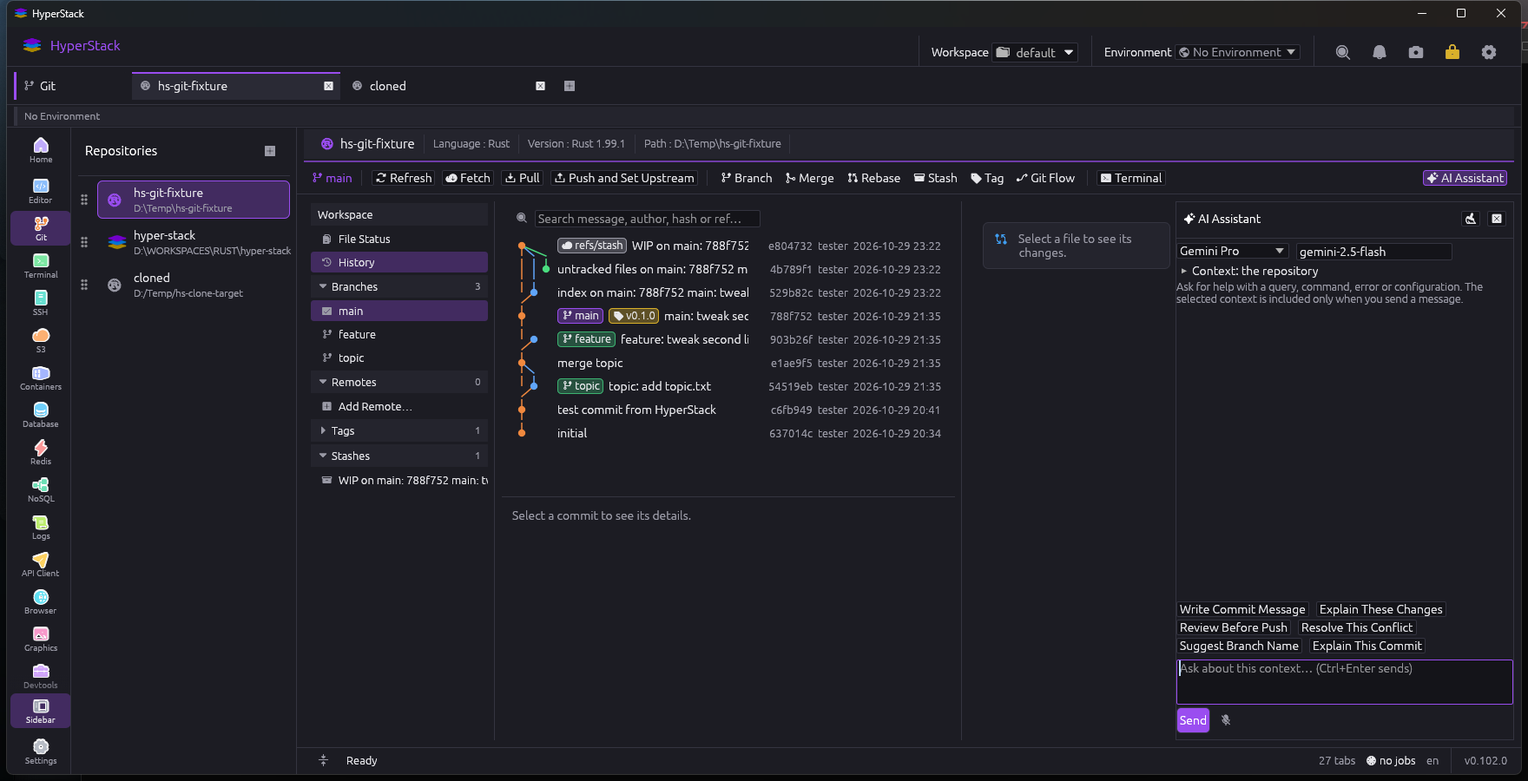
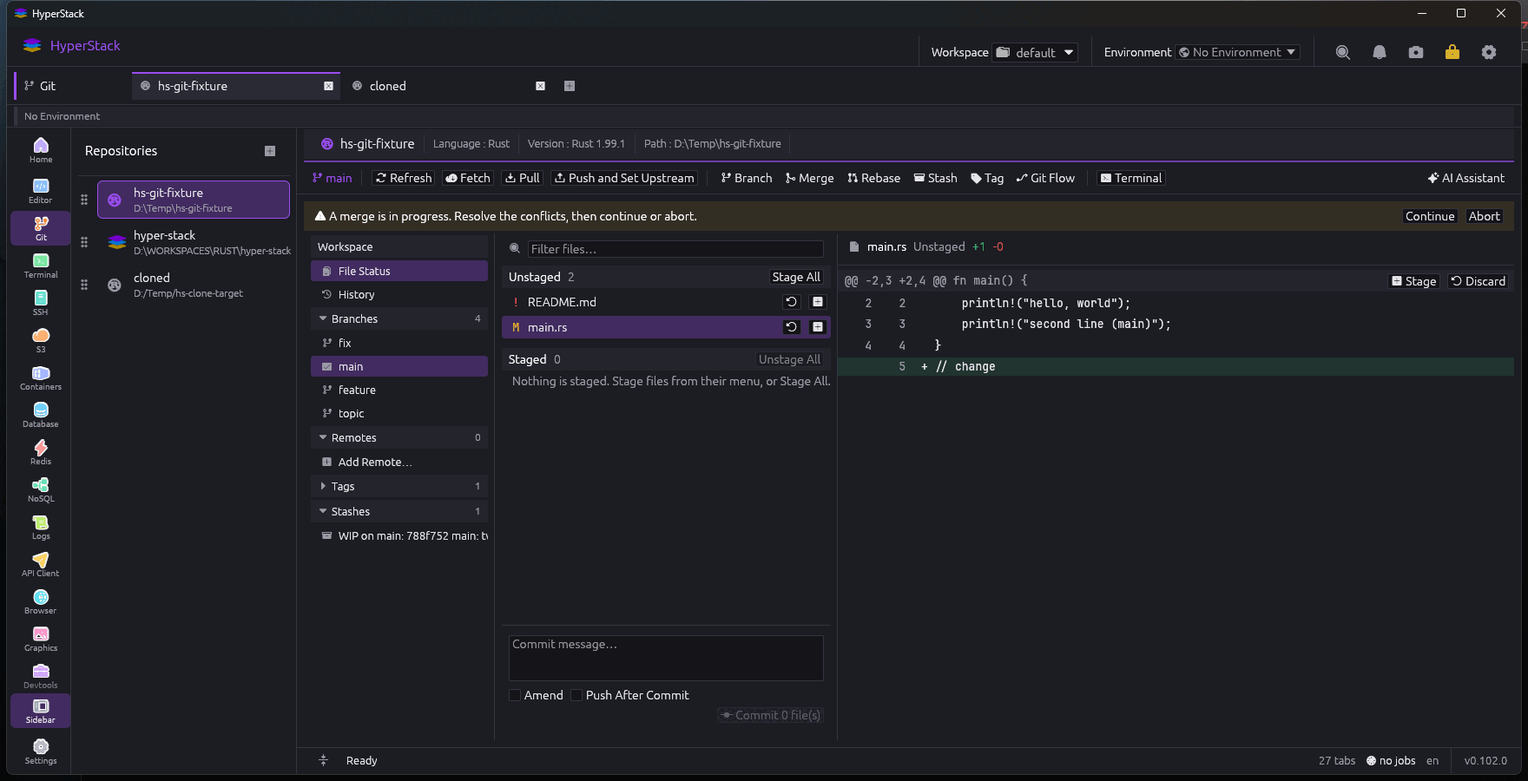
docs: refresh feature and phase status across CHECKLIST, features, roadmap and README with new screenshots and GIFs

diff --git a/README.md b/README.md
@@ -12,7 +12,7 @@
   <a href="https://github.com/mzaki-raup/hyper-stack/stargazers"><img src="https://img.shields.io/github/stars/mzaki-raup/hyper-stack?style=for-the-badge&color=5F4B87&labelColor=14161A" alt="Stars" /></a>
 </p>
 
-<p align="center"><img src="docs/screenshots/hyperstack-demo.gif" alt="HyperStack walkthrough: unlock the vault, open a terminal from the launcher, search the output and Ctrl+click a compiler location to open it in the editor, preview Markdown with a Mermaid diagram, connect over SSH and start a port-forward tunnel, browse an S3 bucket and create a presigned URL, then switch to the protected Production environment" width="960"></p>
+<p align="center"><img src="docs/screenshots/hyperstack-demo.gif" alt="HyperStack walkthrough: unlock the vault, open a terminal from the launcher, search the output and Ctrl+click a compiler location to open it in the editor, preview Markdown with a Mermaid diagram, connect over SSH and start a port-forward tunnel, browse an S3 bucket and create a presigned URL, switch to the protected Production environment, then tour the Git activity (dashboard, File Status, conflict editor, History graph, blame, Git Flow, menus, AI Assistant, Settings → Git), an activity dashboard and the global variables" width="960"></p>
 
 HyperStack is a desktop application for full-stack developers, DevOps engineers,
 database administrators, testers and integration engineers. It brings the tools
@@ -50,8 +50,21 @@ and theme.
 > SwarmUI, InvokeAI or Fooocus server) and a review-only assistant in
 > Terminal, SSH, SQL, Redis, NoSQL, S3, API client and Graphics whose code blocks can be
 > inserted but never run, and the in-app updater with signed releases.
-> The Git write side and logs follow in the next milestones
-> per [docs/07-roadmap.md](docs/07-roadmap.md). Sibling project:
+> Since then: the **Logs** activity (2026-10-22: local, SSH, command and
+> pasted sources, parsers for plain/JSON/logfmt/syslog/Nginx/PostgreSQL
+> and JVM thread dumps, filters, find, bookmarks), the **Containers**
+> activity (2026-10-24: Docker, Podman, Kubernetes and Windows
+> containers; images, Compose, pod logs into Logs, a shell in a pod),
+> a **dashboard home tab** for every activity (2026-10-27: summaries,
+> Start Here, the saved things, what is open), **global variables** and
+> collection variables compared and synced across workspaces
+> (2026-10-29), Scratchpad notes that resolve `{{variables}}` and open
+> their links in the Browser, and the **Git activity** (2026-10-29/30,
+> v0.98 to v0.103): saved repositories, a SourceTree-style work pane
+> with History graph, blame and a conflict editor, every branch / merge /
+> rebase / stash / tag / Git Flow verb, hosts (Fetch Project, Clone and
+> Save, tokens in the vault) and an AI Assistant. The remaining
+> milestones are in [docs/07-roadmap.md](docs/07-roadmap.md). Sibling project:
 > `../eden-explorer` (Rust + egui file manager) serves as a **reference
 > only**: HyperStack studies how it solved the multi-row tab strip,
 > terminal, SSH/SFTP, S3 and Git status, then writes its own
@@ -82,7 +95,7 @@ the fixtures behind them.
 | [Shell and workspaces](#shell-and-workspaces) | Home, launcher, palette, tabs, dock, workspaces, environments |
 | [Vault and connections](#vault-and-connections) | First-run vault, unlock, profiles and secrets |
 | [Editor](#editor) | Projects, files, Markdown and Mermaid, LSP, debugger, AI assistant |
-| [Git](#git) | Git in the editor, and the Git activity with saved repositories, File Status and Settings → Git |
+| [Git](#git) | Git in the editor, and the **Git activity**: dashboard, File Status, History graph, blame, conflicts, Git Flow, hosts, assistant |
 | [Terminal](#terminal) | Shells, search, links |
 | [SSH and SFTP](#ssh-and-sftp) | Host keys, dual pane, tunnels, remote editing |
 | [S3](#s3-and-s3-compatible-storage) | Buckets, profiles, presigned URLs, guards; **WebDAV** and **Nexus** too |
@@ -91,11 +104,11 @@ the fixtures behind them.
 | [NoSQL](#nosql-mongodb-and-couchdb) | Containers, find, aggregate, indexes, documents; **Qdrant** too |
 | [Logs](#logs) | Local, SSH, command and pasted sources; parsers, filters, find, bookmarks |
 | [API client](#api-client) | Requests, scripts, assistant |
-| [Devtools](#devtools) | JWT, hashes, Jasypt, PKI, regex, diff, Base64, URL, YAML, generators, cron, units |
+| [Devtools](#devtools) | JWT, hashes, Jasypt, PKI, regex, diff, Base64, URL, YAML, generators, cron, units; the utility toolbar row |
 | [Graphics](#graphics) | Activity dashboard, image and icon tabs, operations, crop |
 | [Scratchpad and assistant](#scratchpad-and-assistant) | Notes, pinning, dictation |
 | [Browser](#browser) | WebView2 pages, favourites, passwords |
-| [Settings](#settings) | Every page |
+| [Settings](#settings) | Every page, including Git and the Collection / Global Variables cards |
 
 ### Shell and workspaces
 
@@ -114,13 +127,20 @@ the fixtures behind them.
 
 Every activity opens on a **permanent tab of its own** - named after the
 activity, with its icon, and it cannot be closed, pinned or duplicated.
-For Terminal, SSH, Database, NoSQL, Redis, S3, Devtools and the Scratchpad
-that tab is a dashboard: a short summary of the activity and a grid of
-what it has open, each card carrying the last picture taken of that pane,
-and clicking one goes to the tab. Opening a connection, a note or a shell
-always makes a tab beside it. The API client's permanent tab is the
-workspace's instead, with its logo and name. Pinning a tab puts it
-directly after the permanent one.
+Since 2026-10-27 that tab is a **dashboard laid out the same way in every
+activity** (Editor, Git, Terminal, SSH, Containers, Database, NoSQL,
+Redis, S3, API client, Graphics, Devtools, Logs, Scratchpad): a header
+band, equal-width summary boxes, **Start Here** buttons that open the
+right Settings form with the kind already chosen, a grid of the saved
+things (shells, hosts, databases, collections, repositories, notes…) and
+**Open Here**, the activity's open tabs each carrying the last picture
+taken of its pane. Opening a connection, a note or a shell always makes a
+tab beside it. Pinning a tab puts it directly after the permanent one.
+
+| | |
+|---|---|
+| ![Terminal dashboard](docs/screenshots/terminal-dashboard.png) | ![Database dashboard](docs/screenshots/db-dashboard.png) |
+| **Terminal dashboard** - shells detected on the machine, Add CLI, Saved Shells, Open Here with a picture of the open session | **Database dashboard** - saved connections, Add Database, Open Here |
 
 ### Vault and connections
 
@@ -163,48 +183,29 @@ directly after the permanent one.
 | ![Tags](docs/screenshots/editor-git-tags.png) | ![Commit prefix](docs/screenshots/editor-git-prefix.png) |
 | **Tags** - lightweight or annotated, created from their own menu and pushed or deleted per tag | **Commit prefixes** - pick a Conventional Commit type; it is inserted once with its meaning, and Clear Prefix removes it |
 
-**The Git activity** (2026-10-29, phase 1 of `docs/tools/git-activity.md`)
-sits right after Editor in the rail: a dashboard home with summaries,
-Start Here, Saved Repositories and Open Here; a sidebar of the
-workspace's saved repositories (drag to reorder; right-click to edit its
-settings or Remove From List, which closes the tabs and never touches the
-folder); and one tab per repository with a header band (icon, name,
-language, toolchain version, URL, path), a toolbar (branch, Refresh,
-Fetch, Pull, Push, Terminal in the repository root) and the SourceTree
-File Status view - unstaged and staged lists with Stage / Unstage /
-Discard, the diff of the selected file, and a commit box with Amend and
-Push After Commit. **Settings → Git** holds the repository list
-(master/detail form), Git Credentials (tokens go to the vault) and the
-General options (protected patterns, pull with rebase, sign-off, stash
-untracked, default clone folder, terminal profile, Git Flow names).
-Phase 2 (same day) added the SourceTree work pane: a tree of branches,
-remotes, tags and stashes; **History** with the commit graph, chips,
-search, commit details and per-file diffs; **Blame** coloured by age;
-per-hunk Stage / Unstage / Discard; a **conflict editor** (Ours / Theirs
-/ Both per block, Save and Mark Resolved); and uploaded **repository
-icons** shown on the tab, the sidebar and the dashboard. Phase 3 brought the verbs: Branch, Merge, Rebase (plain and interactive),
-Stash, Tag and Git Flow panels on the toolbar; right-click menus on
-branches, remotes, tags, stashes and commits (check out, merge, rebase,
-push, set upstream, rename, delete, fetch, cherry-pick, tag here…); a
-Continue / Skip / Abort bar for a paused merge, rebase or cherry-pick;
-and confirmations for deletions and pushes onto protected branches.
-Phase 4 added the hosts: a credential's **Test**, **Fetch Project** (a
-searchable list of everything a GitHub, GitLab, Forgejo, Gitea or
-Bitbucket token can see), **Clone and Save** as a cancellable job, and
-the token handed to git for one command at a time through a helper file
-that is deleted afterwards. Phase 5 added the **AI Assistant** column: the repository as context,
-prompt buttons for a commit message, an explanation or review of the
-changes, a conflict, a branch name or the last commit, and answers whose
-command blocks run in a terminal opened in the repository root. Phase 6
-finished the activity: dashboard figures for repositories with changes
-and commits ahead / behind, the host's avatar as the icon of a fetched
-project, a palette command for every verb, and keyboard navigation of
-the lists.
+**The Git activity** (2026-10-29/30, v0.98 to v0.103, spec
+[docs/tools/git-activity.md](docs/tools/git-activity.md)) sits right after
+Editor in the rail and manages repositories SourceTree-style, apart from
+whatever the editor has open.
+
+<p align="center"><img src="docs/screenshots/git-walkthrough.gif" alt="Git activity walkthrough: the dashboard, File Status with a hunk's Stage and Discard under a paused merge, the conflict editor, the History graph with a commit's files, blame, the Git Flow panel, a branch's menu, the AI Assistant with the repository as context, Settings → Git and a credential form" width="960"></p>
 
 | | |
 |---|---|
-| ![Git dashboard](docs/screenshots/git-dashboard.png) | ![Git repository tab](docs/screenshots/git-repository.png) |
-| **Dashboard** - saved repositories, figures, Start Here | **Repository tab** - tree, History graph, diff and the assistant column |
+| ![Git dashboard](docs/screenshots/git-dashboard.png) | ![File Status](docs/screenshots/git-repository.png) |
+| **Dashboard** - Repositories, With Changes, Ahead / Behind, Credentials and Open Tabs; Start Here (Add Repository, Clone From Host, Git Credentials, Manage Repositories); Saved Repositories with their icons; Open Here | **Repository tab** - header band (icon, name, language, toolchain version, URL, path), the toolbar (branch, Refresh, Fetch, Pull, Push, Branch, Merge, Rebase, Stash, Tag, Git Flow, Terminal, AI Assistant), the tree (File Status / History, Branches with ahead/behind, Remotes, Tags, Stashes), unstaged and staged lists with Stage / Unstage / Discard, the diff with **Stage / Discard per hunk**, the commit box with Amend and Push After Commit - here under the bar a paused merge shows, with Continue and Abort |
+| ![History](docs/screenshots/git-history.png) | ![Conflict editor](docs/screenshots/git-conflict.png) |
+| **History** - the commit graph of every branch with lanes, branch / tag / stash chips, author and date, a search over message, author, hash and ref, Load More; the selected commit's message, hash, parents and changed files, each opening its diff or its blame | **Conflict editor** - an unmerged file block by block: Ours and Theirs under their labels, Ours / Theirs / Both per block, All Ours / All Theirs, and **Save and Mark Resolved**, which writes the file and stages it |
+| ![Blame](docs/screenshots/git-blame.png) | ![Git Flow](docs/screenshots/git-flow.png) |
+| **Blame** - every line with its commit, author and date in a gutter coloured by age; clicking a line finds its commit in History | **Git Flow** - Feature / Release / Hotfix, Start or Finish, built from plain git with the exact commands shown before Apply (a finish merges with `--no-ff`, tags production and merges back into develop); the names live in Settings → Git |
+| ![Branch menu](docs/screenshots/git-branch-menu.png) | ![AI Assistant](docs/screenshots/git-assistant.png) |
+| **Right-click menus** - a branch: Check Out, Merge into Current, Rebase Current onto, Push, Set Upstream, Rename, Delete; a remote branch, a remote, a tag, a stash and a History row have theirs (cherry-pick, create branch here, tag here…); deletions and pushes onto a protected branch ask first | **AI Assistant** - the repository as context (branch, upstream, remote, status, a bounded staged diff, recent commits) and six prompt buttons; a `commit` block's Insert fills the commit box, a command block's Insert and Run runs it in a terminal opened in the repository root |
+| ![Settings → Git](docs/screenshots/settings-git.png) | ![Credential](docs/screenshots/settings-git-credential.png) |
+| **Settings → Git** - the repository list (drag to reorder) and a master/detail form: Local Folder, Localhost or Remote Host source, name, an **uploaded icon** or a glyph, URL, credential, **Fetch Project** (a fuzzy-searchable list of everything the token can see; the host's avatar becomes the icon), path and language; **Clone and Save** clones a folder that does not exist yet as a cancellable Job; Save stays disabled until the mandatory fields hold | **Git Credentials** - GitHub, GitLab, Forgejo, Gitea, Bitbucket, Azure DevOps or generic; host URL, username and a token that goes to the **vault** and reaches git for one command at a time through a helper file deleted afterwards; **Test** asks the host who the token belongs to. The General card below holds protected patterns, pull with rebase, sign-off, stash untracked, the default clone folder, the terminal profile and the Git Flow names |
+
+Removing a repository from the list closes its tabs and **never touches
+the folder**; every verb is also a palette command, and Up / Down walk
+the lists.
 
 ### Terminal
 
@@ -315,6 +316,9 @@ globals. A non-GET request to a protected environment asks first.
 | ![Cron](docs/screenshots/devtools-cron.png) | ![Unit conversion](docs/screenshots/devtools-units.png) |
 | **Cron** - build a schedule and read it in Unix, Spring and Quartz dialects, with an expression checker | **Units** - time, epochs, number bases, data sizes, durations and bandwidth, with every unit listed |
 
+| ![Utility toolbar](docs/screenshots/devtools-toolbar.png) | |
+| **Utility tabs** (2026-10-29) - every utility opens in its own tab under a toolbar row that names it and keeps the hard-right corner for an AI Assistant control; the activity's dashboard lists all fifteen | |
+
 Also **TOML** and **XML** (check, format, convert) and **Firebase tokens**;
 keys typed into a utility are never saved.
 
@@ -396,8 +400,10 @@ each removable; the AI assistant is review-only.
 | **Edit Secret** — after the master password, the password and key are editable; typed values move into the vault, an empty field clears the secret | **Connections** — every profile by kind, folder and tags, drag to reorder, Test Connection and **Connect**, which saves and opens the profile in its own activity. Right-click a connection in any activity sidebar for **Edit This Connection…**, which opens its form here |
 | ![Terminal settings](docs/screenshots/settings-terminal.png) | ![Editor settings](docs/screenshots/settings-editor.png) |
 | **Terminal** — default shell, font, right-click copy/paste, link detection | **Editor** — font, right-click, trim and final newline on save, auto reload, language servers and debug adapters |
-| ![Terminal List](docs/screenshots/settings-terminal-list.png) | |
-| **Terminal List** - shells and CLI profiles in order, with Add CLI, Edit, Remove and PATH suggestions (sqlite3, claude and opencode here); a disabled CLI stays in the list and leaves the sidebar | |
+| ![Terminal List](docs/screenshots/settings-terminal-list.png) | ![Git settings](docs/screenshots/settings-git.png) |
+| **Terminal List** - shells and CLI profiles in order, with Add CLI, Edit, Remove and PATH suggestions (sqlite3, claude and opencode here); a disabled CLI stays in the list and leaves the sidebar | **Git** (2026-10-29) - Repositories (master/detail, Fetch Project, Clone and Save, uploaded icons), Git Credentials (tokens in the vault, Test) and General (protected patterns, pull / sign-off / stash options, clone folder, terminal profile, Git Flow names) |
+| ![Variables cards](docs/screenshots/settings-variables.png) | ![Globals](docs/screenshots/settings-globals.png) |
+| **Collection Variables and Global Variables** (2026-10-29) - beside the environments, every API collection's variables and the one application-wide global set, edited in place; a collection's **Compare With…** shows New / Same / Differs against another collection in this or any other workspace, with Copy Selected and **Sync All** | **Globals** - one set for the whole application, read wherever a `{{name}}` is accepted (API client, Scratchpad, Browser, connection forms); an environment variable of the same name wins |
 | ![Browser settings](docs/screenshots/settings-browser.png) | ![Shortcuts](docs/screenshots/settings-shortcuts.png) |
 | **Browser** — home page, blocking and script defaults, extra blocked hosts | **Shortcuts** — every action rebindable; conflicts listed |
 | ![AI settings](docs/screenshots/settings-ai.png) | ![About](docs/screenshots/settings-about.png) |

diff --git a/docs/07-roadmap.md b/docs/07-roadmap.md
@@ -85,10 +85,10 @@ in the e2e test).
 - [x] `tool-api`: request editor (params/headers/body/auth: basic, bearer, API key; OAuth2 and SigV4 pending), send with timing, response viewer (pretty/raw/preview, headers, cookies), history, curl import/export — 2026-10-15
 - [x] Collections (one JSON file each), variables with scopes, Postman v2.1 import/export; JavaScript `pm` scripts on Boa — 2026-10-15 (Insomnia, Bruno and OpenAPI importers 2026-10-18)
 - [x] Git in the editor: status, stage/unstage file + hunk, diff viewer, commit, branches, stash, fetch/pull/push via the git CLI, protected-remote guard (`hs-git`, 2026-10-12/18)
-- [ ] **Git activity** (`tool-git`, owner's request 2026-10-29, phases in `docs/tools/git-activity.md` §8): phase 1 foundation landed 2026-10-29 (stores, rail entry, dashboard, sidebar, File Status + commit, Settings → Git); phases 2–6 (work pane, operations, hosts, assistant, polish) pending
+- [x] **Git activity** (`tool-git`, owner's request 2026-10-29, phases in `docs/tools/git-activity.md` §8): all six phases landed 2026-10-29/30 — foundation (v0.98), work pane with History graph, blame and conflict editor (v0.99), operations and Git Flow (v0.100), hosts with Fetch Project and Clone and Save (v0.101), AI Assistant (v0.102), polish (v0.103)
 
 ### M5 · Logs + Devtools core (4 w)
-- [ ] `tool-logs`: local file engine (index, backward paging, follow with rotation detection), SSH source (`tail -F` over exec channel, SFTP range fallback), parsers (plain/JSON/logfmt/syslog/combined/multi-line stack traces), filters, highlight rules, level colours, structured columns, find, bookmarks, saved sources
+- [x] `tool-logs`: local file engine (index, backward paging, follow with rotation detection), SSH source (`tail -F` over exec channel, SFTP range fallback), parsers (plain/JSON/logfmt/syslog/Nginx/PostgreSQL/JVM thread dumps), filters, highlight rules, level colours, structured columns, find, bookmarks, saved sources — 2026-10-22 (thread dumps 2026-10-24)
 - [x] `tool-devtools`: JSON/YAML/TOML/XML format+convert, regex tester, cron builder, UUID/ULID, timestamp converter, text diff — JWT, Base64, hashes/HMAC, Jasypt, PKI messages and Firebase tokens 2026-10-15; cron, generators, conversions 2026-10-17; regex tester and text diff (on `similar`, not `hs-editor`) 2026-10-18
 
 ### M6 · Hardening and 1.0 (4 w)
@@ -123,14 +123,14 @@ feeds the same handoff.
 
 ## Phase 2 — Depth (≈ 16 weeks)
 
-- [ ] Containers: Docker/Podman (local, TCP, over SSH), compose; logs feed `tool-logs`, exec feeds `hs-term`
+- [x] Containers: Docker/Podman (local, TCP, over SSH), Kubernetes and Windows containers, compose; logs feed `tool-logs`, exec feeds `hs-term` — the Container activity, 2026-10-24 (ADR-026)
 - [ ] API: Rhai pre/post scripts and assertions, collection runner with report, WebSocket + SSE, GraphQL introspection, cookie jar, client certs, proxy
 - [ ] SQL: SQL Server, inline editing with preview, explain plan tree, CSV import, Excel export
 - [ ] NoSQL: Elasticsearch/OpenSearch and DynamoDB drivers, index management, explain, schema inference, import/export, copy collection across environments, CouchDB views and replication
 - [ ] Redis: server info dashboard, slowlog, client list, pub/sub tab, streams with consumer groups, big-key finder, bulk delete with dry run, export/import
-- [ ] Logs: Docker/Kubernetes/journalctl/Windows Event Log sources, multi-source merge, statistics sparkline, alerts, save filtered output
+- [ ] Logs: Docker/Kubernetes sources done through the Container activity (2026-10-24); journalctl/Windows Event Log sources, multi-source merge, statistics sparkline, alerts, save filtered output pending
 - [ ] Editor: tree-sitter highlighting and folding, minimap, snippets, external formatter, three-way merge editor
-- [ ] Git: log graph, blame, file history, merge/rebase/cherry-pick/revert/tags, conflict resolution
+- [x] Git: log graph, blame, file history, merge/rebase/cherry-pick/tags, conflict resolution — the Git activity, 2026-10-29/30 (revert pending)
 - [ ] SSH: port-forward manager UI, broadcast input, server monitor widget, saved commands
 - [ ] S3: object metadata/tags/versions, sync with dry run, policy/CORS viewer
 - [ ] Shell: cross-tool drag and drop, global search, optional installed mode (per-user data folder) for people who prefer it
@@ -139,11 +139,11 @@ feeds the same handoff.
 
 ## Phase 3 — Reach (≈ 16 weeks)
 
-- [ ] Kubernetes: contexts, namespaces, workloads, pods logs/exec/port-forward, describe, apply
+- [x] Kubernetes: contexts, namespaces, workloads, pods logs/exec/port-forward, describe, apply — in the Container activity, 2026-10-24
 - [ ] API: gRPC (reflection + proto import), mock server from collection/OpenAPI, OpenAPI export
 - [ ] SQL: ER diagram, DDL generator, schema compare, data compare, ClickHouse/DuckDB
 - [ ] NoSQL: Cassandra/ScyllaDB (CQL), Firestore/Cosmos/Neo4j evaluation
-- [ ] Git forge integration: GitHub/GitLab/Forgejo PRs, issues, CI status
+- [ ] Git forge integration: project listing, clone and avatars done (Git activity phase 4, 2026-10-29); PRs, issues and CI status pending
 - [ ] Plugin API (WASM via `wasmtime`): devtools utilities and importers first
 - [ ] Detachable tabs (multiple viewports), session audit log, presentation mode
 - [x] Optional AI assistant (bring your own service) in the editor (ADR-019); review-only assistant with Insert in Terminal, SSH, SQL, S3, API client and Graphics (2026-10-15)

diff --git a/CHECKLIST.md b/CHECKLIST.md
@@ -236,19 +236,19 @@ store that already exists.
 
 | Item | State | Notes |
 |---|---|---|
-| Containers: Docker/Podman, Compose, remote over SSH | Pending | |
+| Containers: Docker/Podman, Compose, remote over SSH | Completed | The Container activity, 2026-10-24: Docker, Podman, Kubernetes and Windows containers, images, Compose, pod logs into Logs, a shell in a pod (see the Container activity section above) |
 | API: Rhai scripts, runner, WebSocket/SSE, GraphQL, cookies/proxy/certs | Pending | |
 | SQL: SQL Server, inline editing, explain, CSV import, Excel export | Pending | |
 | NoSQL: Elasticsearch/OpenSearch, DynamoDB, indexes, schema inference, import/export, copy collection, CouchDB views/replication | Pending | |
 | Redis: dashboard, slowlog, pub/sub, streams, big-key finder, bulk ops | Pending | |
-| Logs: Docker/k8s/journalctl/Event Log sources, merge, statistics, alerts | Pending | |
+| Logs: Docker/k8s/journalctl/Event Log sources, merge, statistics, alerts | In-Progress | Docker and Kubernetes sources through the Container activity (2026-10-24); journalctl, Event Log, merge, statistics and alerts pending |
 | Editor: tree-sitter, minimap, snippets, formatter, three-way merge | Pending | |
 | Editor: AI assistant (1min.AI / OpenAI-compatible, edit blocks, Cascade; ADR-019) | Completed | 2026-10-11, owner's request ahead of the roadmap: chat with file/selection context, diffs with Apply/Reject (one undo step each), Cascade rounds, Settings → AI Assistant with several providers, Fetch Models and Test Connection; exercised in the app against a mock server speaking both the 1min.AI and the OpenAI SSE formats; API key stored in the vault and the data folder grepped clean. Not yet tried against the live 1min.AI service or a real LM Studio |
 | Editor: several project roots, each with its own editor tabs | Completed | 2026-10-12: one editor tab, a row of file tabs per project, Other Files row, close guards, Ctrl+F4 / Ctrl+Alt+PgUp/PgDn, routing from other tools via `uri_affinity`, one-file layouts migrated; tool-level test with real services, and exercised in the app (command-line folder, tree, terminal Ctrl+click, unsaved-close dialog, restart restore) |
 | Editor: one window tab per project with a multi-row strip of file tabs inside (replaces "Open Files In") | Completed | 2026-10-12, owner's request: exercised in the app (a two-project tab split into two project tabs, 13 files wrapping in the file strip, 10 project tabs wrapping in the window strip, close and the file-tab menu), editor tool test, tab strip kittest |
 | Editor: "Open Files In" setting (Separate Tabs default, Project Rows with wrapping rows) | Completed | 2026-10-12, after the owner found files "overwriting" the tab: exercised both modes in the app (new tab per tree click, focus of an open file, projects carried to new tabs, live switch, a 14-file row wrapping) and in the tool-level test |
 | AI: model dropdown from the provider's model list | Completed | 2026-10-12: LM Studio-style `/v1/models` list, 1min.AI built-in list, custom id, refresh, error shown in the list; exercised against the mock server |
-| Git: log graph, blame, merge/rebase/cherry-pick, conflicts | Pending | |
+| Git: log graph, blame, merge/rebase/cherry-pick, conflicts | Completed | The Git activity, 2026-10-29/30 (phases 2 and 3 in the Git activity section) |
 | SSH: port-forward UI, broadcast, server monitor | Pending | |
 | S3: metadata/tags/versions, sync, policy viewer | Pending | |
 | Shell: drag and drop, global search, installed mode | Pending | |
@@ -259,11 +259,11 @@ store that already exists.
 
 | Item | State | Notes |
 |---|---|---|
-| Kubernetes | Pending | |
+| Kubernetes | Completed | In the Container activity, 2026-10-24: contexts, namespaces, workloads, pod logs/exec/port-forward, describe, apply with a dry-run diff |
 | gRPC, mock server, OpenAPI export | Pending | |
 | SQL: ER diagram, DDL, schema/data compare, ClickHouse/DuckDB | Pending | |
 | NoSQL: Cassandra/ScyllaDB | Pending | |
-| Forge integration (GitHub/GitLab/Forgejo) | Pending | |
+| Forge integration (GitHub/GitLab/Forgejo) | In-Progress | Project listing, clone and avatars done (Git activity phase 4, 2026-10-29); PRs, issues and CI status pending |
 | Plugin API (WASM) | Pending | |
 | Detachable tabs, audit log, presentation mode | Pending | |
 | macOS runner and bundle, aarch64 builds | Pending | |

diff --git a/docs/02-features.md b/docs/02-features.md
@@ -189,15 +189,16 @@ suggestion.
 
 | Feature | Priority | Effort |
 |---|---|---|
-| Status, stage/unstage (file and hunk), commit with message templates and sign-off | P0 | M |
-| Diff viewer (side by side / inline) using the editor engine | P0 | M |
-| Branches: create, checkout, rename, delete; stash list | P0 | M |
-| Fetch, pull, push with upstream tracking and credential helper integration | P0 | M |
-| Merge with conflict list; conflict resolution in the three-way editor | P1 | L |
-| Log graph with search, blame, file history | P1 | M |
-| Rebase (interactive list), cherry-pick, revert, tags | P1 | M |
+| Status, stage/unstage (file and hunk), commit with message templates and sign-off — done in the editor 2026-10-12/18 and in the Git activity 2026-10-29 | P0 | M |
+| Diff viewer (side by side / inline) using the editor engine — done 2026-10-12 (editor); the Git activity draws its own inline diff with per-hunk verbs 2026-10-29 | P0 | M |
+| Branches: create, checkout, rename, delete; stash list — done 2026-10-18 (editor), 2026-10-29 (activity: tree, menus, panels) | P0 | M |
+| Fetch, pull, push with upstream tracking and credential helper integration — done 2026-10-18; the activity hands a vault token to git through a one-command credential helper 2026-10-29 | P0 | M |
+| Merge with conflict list; conflict resolution in the three-way editor — done 2026-10-18 (editor) and 2026-10-29 (activity's conflict editor, Continue / Skip / Abort bar) | P1 | L |
+| Log graph with search, blame, file history — done 2026-10-29 in the Git activity (`hs_git::graph` lanes, `hs_git::blame`, File History) | P1 | M |
+| Rebase (interactive list), cherry-pick, revert, tags — rebase, interactive rebase, cherry-pick and tags done 2026-10-18 (editor) / 2026-10-29 (activity); revert pending | P1 | M |
+| **Git activity** (owner's request 2026-10-29, [spec](tools/git-activity.md)): rail entry after Editor, dashboard with figures, saved repositories per workspace with uploaded icons, SourceTree work pane, Git Flow start/finish from plain git, hosts (Fetch Project for GitHub / GitLab / Forgejo / Gitea / Bitbucket, Clone and Save as a Job, credential Test, avatars as icons), AI Assistant with git prompt buttons, a palette command per verb — done in six phases 2026-10-29/30 (v0.98–v0.103) | P0 | L |
 | Submodules, worktrees, LFS awareness | P2 | M |
-| GitHub / GitLab / Forgejo integration: PRs, issues, CI status (token in the vault) | P2 | L |
+| GitHub / GitLab / Forgejo integration: PRs, issues, CI status (token in the vault) — project listing, clone and avatars done 2026-10-29; PRs, issues and CI status pending | P2 | L |
 
 ## 8. Terminal (suggested) — [spec](tools/terminal.md)
 
@@ -273,5 +274,9 @@ suggestion.
 | Secrets in an encrypted vault file beside the executable (master password), referenced by id from profiles; OS keyring as an opt-in alternative for installed, non-portable use | P0 | M |
 | Import/export of everything except secrets as a folder of files; put `.hyperstack/` in a repo to share with a team | P0 | S |
 | Global search across saved queries, requests, hosts, buckets, snippets | P1 | M |
+| **Global variables**: one application-wide set read wherever `{{name}}` is accepted, after the environment chain; Settings → Environments cards for collection variables and globals — done 2026-10-29 | P1 | S |
+| **Collection variables compared and synced** with another collection in this or any workspace (New / Same / Differs, Copy Selected, Sync All) — done 2026-10-29 | P1 | S |
+| **Activity dashboards**: one shared layout (header band, summaries, Start Here, saved things, Open Here) for every activity's permanent tab — done 2026-10-27 | P1 | M |
+| Scratchpad preview resolves `{{variables}}` and opens `http(s)` links as Browser pages — done 2026-10-29 | P2 | S |
 | Plugin API (WASM, limited to devtools and importers first) | P2 | L |
 | Optional AI assistant (bring your own service: Anthropic, Gemini, Azure OpenAI, AWS Bedrock, 1min.AI, OpenAI-compatible, local LM Studio/Ollama): editor chat, review, edit blocks applied as diffs, Cascade rounds (ADR-019); assistant in terminal, SSH, SQL, S3, API client and graphics uses explicitly shared context, offers per-tool quick actions, and can Insert or Insert and Run a block through the tool's own guarded Run (ADR-019, amended 2026-10-16) | P1 | M |

diff --git a/docs/screenshots/README.md b/docs/screenshots/README.md
@@ -36,6 +36,38 @@ The assistant is covered by `settings-ai.png`, `editor-ai-review.png`,
 (terminal, SSH, SQL, S3, Redis, NoSQL) use the same layout; no separate
 captures are kept for each.
 
+## 2026-10-30 set: the Git activity, dashboards, variables, the Devtools toolbar
+
+Captured at 1760x900 from the v0.102/v0.103 debug build with the session
+harness (`hs.ps1`: `start`, `click`, `rclick`, `keys`, `wheel`, `shot`,
+client coordinates = screenshot − (8, 31)), quantised with
+`magick <in> -colors 256 -depth 8 <out>`. The fixture repository
+`D:\Temp\hs-git-fixture` has a merge in progress (README.md conflicted
+between `main` and `fix`), an unstaged change to `main.rs`, a stash, a
+tag, and the `feature` and `topic` branches; `hs-bare.git` is its bare
+clone for the Localhost source.
+
+- `git-dashboard.png`, `git-repository.png` (File Status with a hunk's
+  verbs under the paused-merge bar), `git-history.png`,
+  `git-conflict.png`, `git-blame.png`, `git-flow.png`,
+  `git-branch-menu.png`, `git-assistant.png`, `settings-git.png`,
+  `settings-git-credential.png`.
+- `git-walkthrough.gif`: those ten in that order,
+  `magick <frames> -resize 1200x -colors 256 -layers Optimize -set delay 300 -loop 0 git-walkthrough.gif`
+  (3 s a frame, 0.7 MB).
+- `terminal-dashboard.png`, `db-dashboard.png`: the shared dashboard
+  layout every activity's permanent tab uses since 2026-10-27.
+- `settings-variables.png` (the Collection Variables and Global Variables
+  cards beside the environments), `settings-globals.png` (the Globals
+  editor).
+- `devtools-toolbar.png`: a utility tab with its toolbar row.
+- `hyperstack-demo.gif`: the 112 frames of the 2026-10-22 set plus
+  twelve new ones (the ten Git frames, the Terminal dashboard and the
+  Globals editor, each `-resize 1200x -gravity center -background
+  '#14161A' -extent 1200x823`), re-optimised with
+  `magick <old coalesced> <new> -colors 256 -layers Optimize -set delay 300 -loop 0`:
+  124 frames, 3 s each, 8.7 MB.
+
 ## 2026-10-15 set: Home, settings pages, Devtools, API client, Graphics, Browser
 
 `home.png`, `settings-general.png`, `settings-appearance.png`,

diff --git a/CHANGELOG.md b/CHANGELOG.md
@@ -11,7 +11,14 @@ Format: [Keep a Changelog](https://keepachangelog.com/en/1.1.0/) · Versioning:
 
 ## Unreleased
 
-- (nothing yet)
+- **Docs refreshed for every feature and phase** (owner's request,
+  2026-10-30): `CHECKLIST.md`, `docs/02-features.md` and
+  `docs/07-roadmap.md` now record the Git activity's six phases, the
+  Logs and Container activities, Kubernetes, the dashboards, global and
+  collection variables; the README gains the Git activity's surfaces
+  (ten screenshots and `git-walkthrough.gif`), the shared dashboard
+  layout, the Settings → Git page, the variables cards and the Devtools
+  toolbar row, and the main walkthrough GIF grows twelve frames.
 
 ## 0.103.0 — 2026-10-29
 
